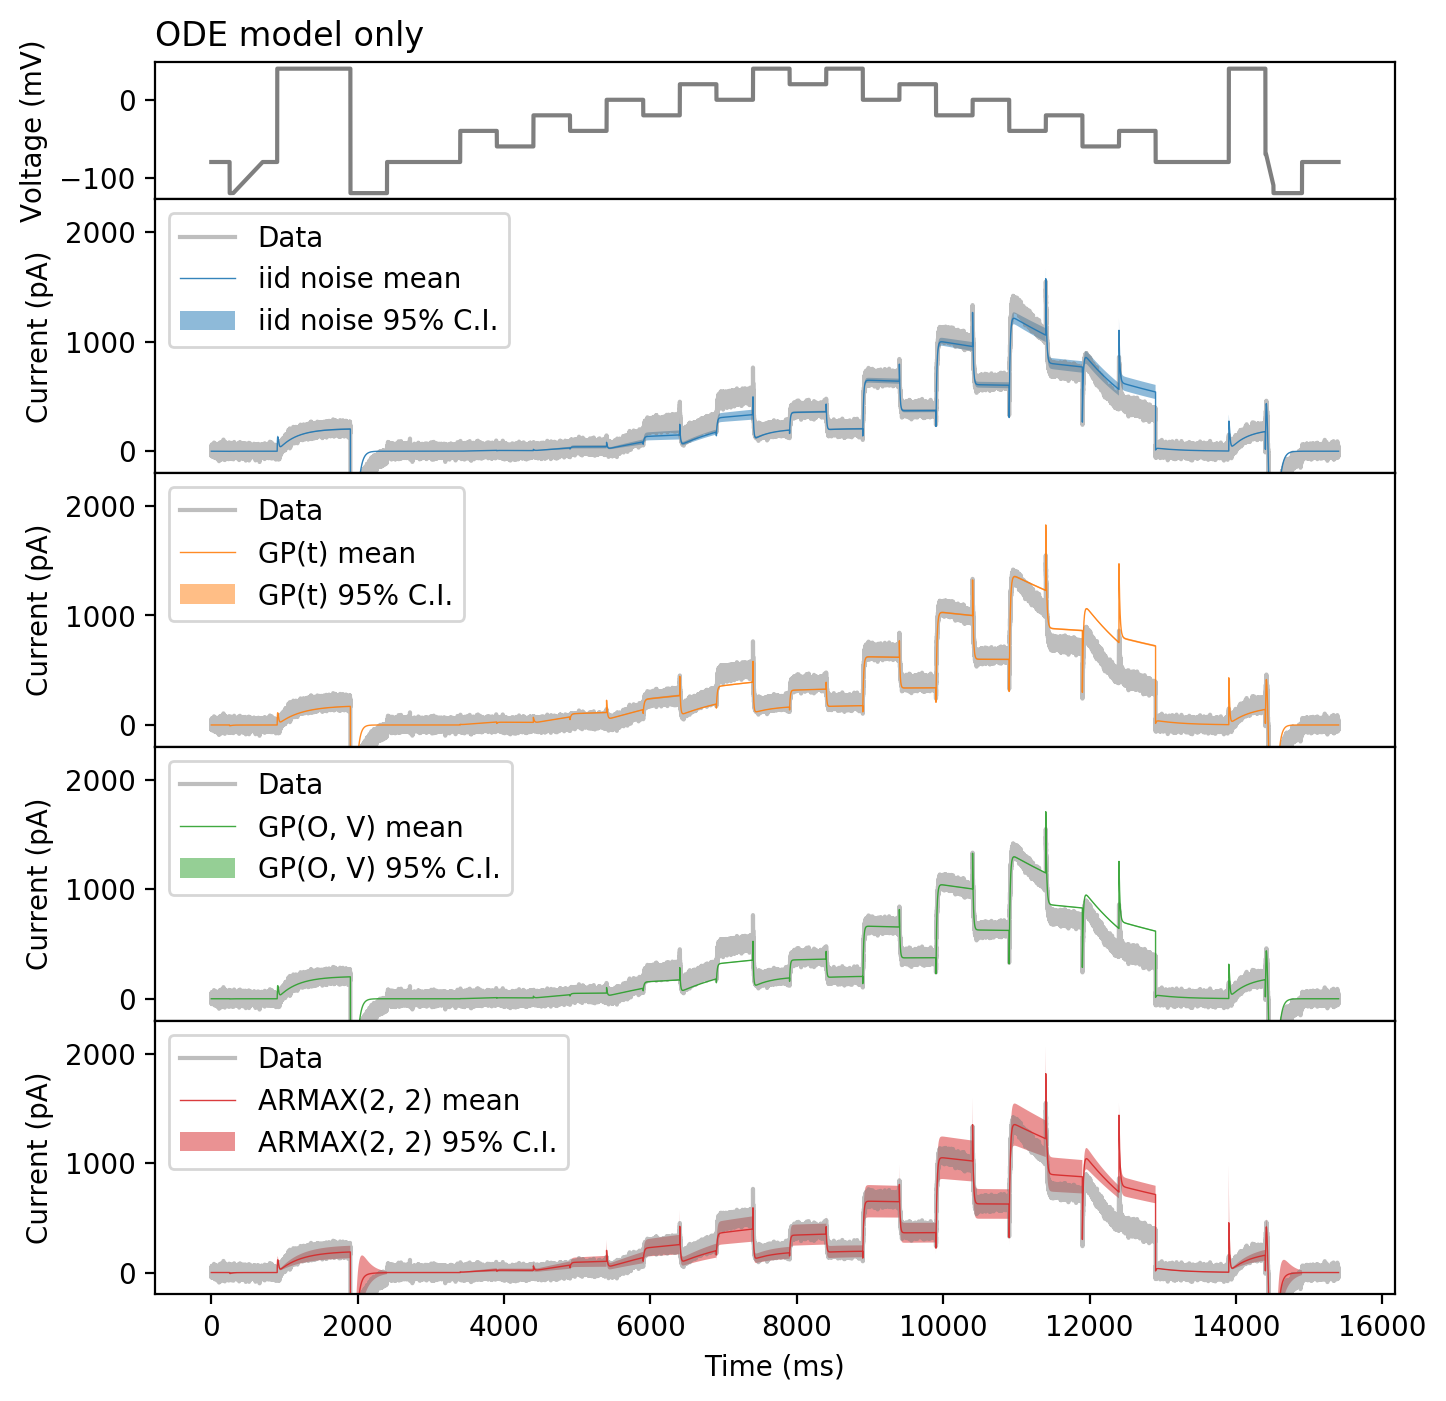
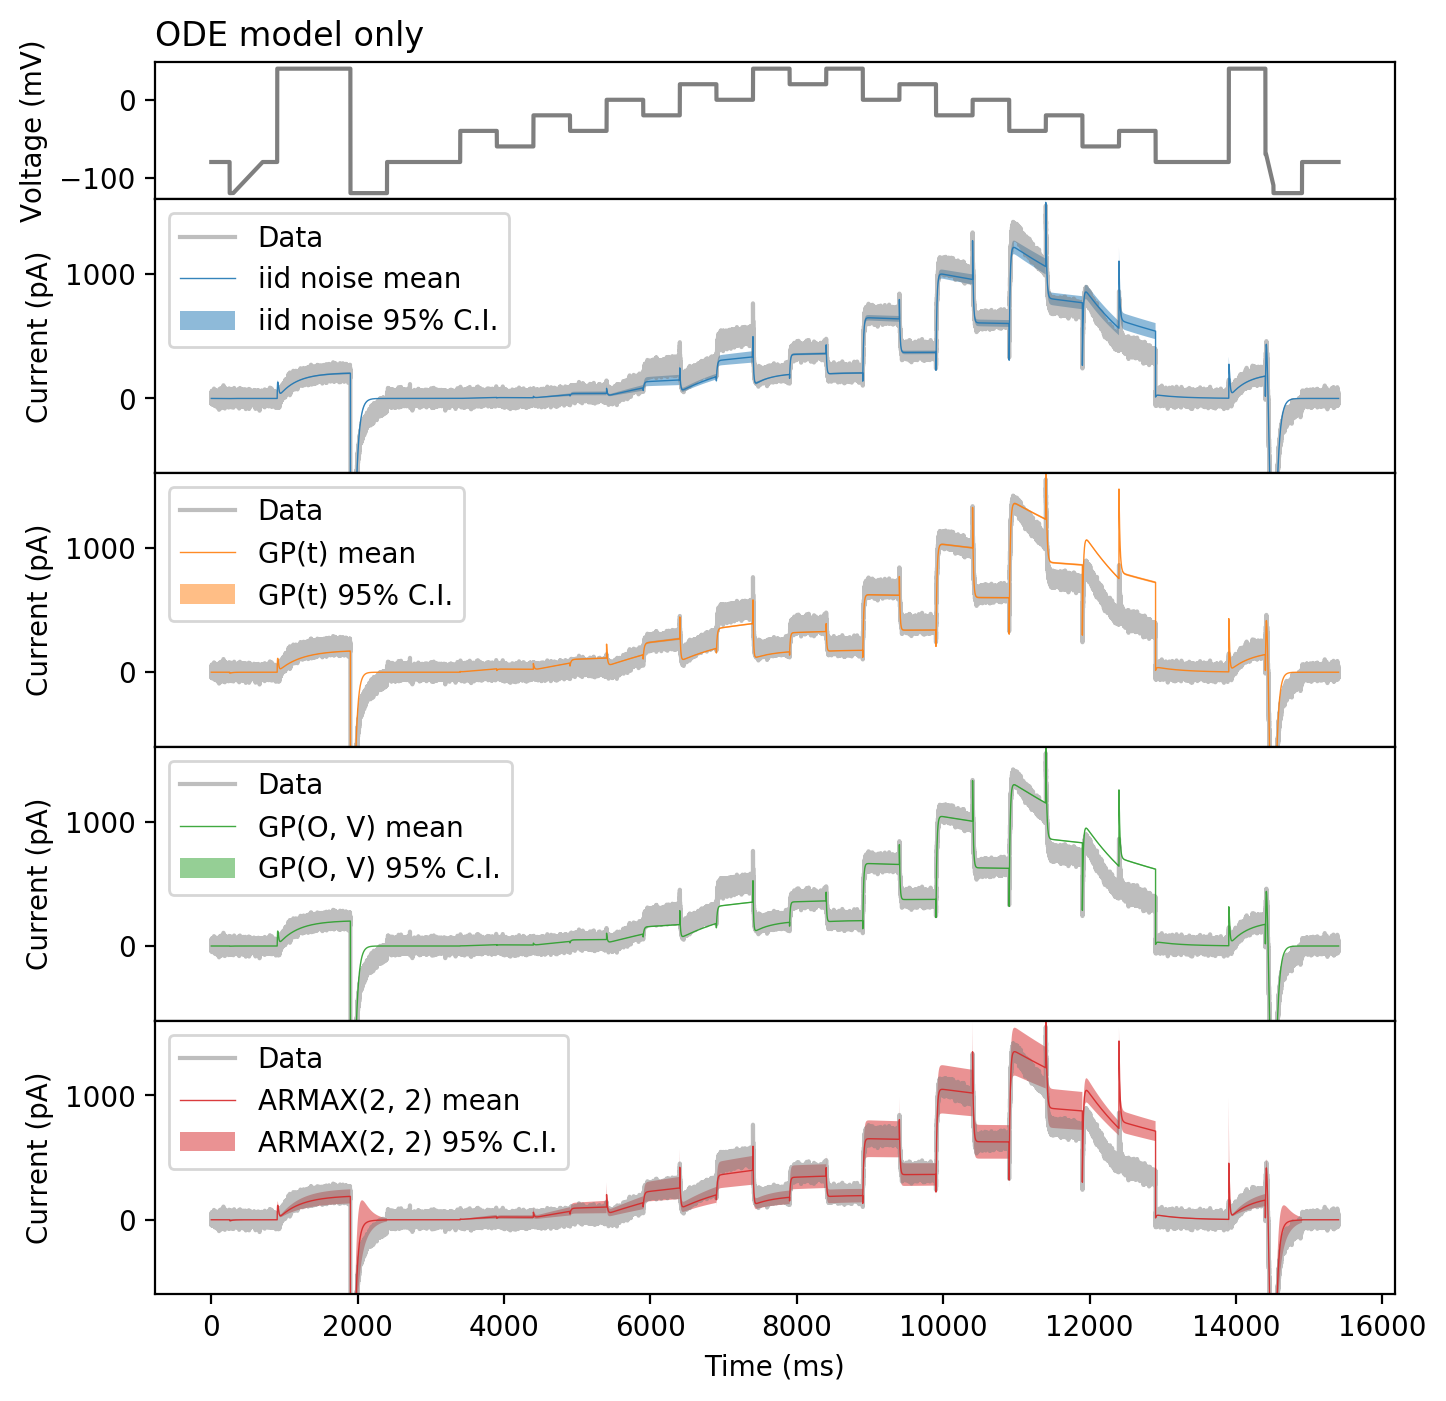
Update ylim

diff --git a/ion-channel-models/compare-pp.py b/ion-channel-models/compare-pp.py
@@ -20,7 +20,7 @@ This script plots the cached posterior predictives generated by `posterior.py`,
 """
 
 model_list = ['A', 'B', 'C']
-predict_list = ['sinewave', 'staircase', 'activation', 'ap']
+predict_list = ['sinewave', 'staircase', 'ap']
 discrepancy_list = ['', '-gp', '-gp-ov', '-arma_2_2']
 load_list = ['', '-gp', '-gp', '-armax']
 discrepancy_names = ['iid noise', 'GP(t)', 'GP(O, V)', 'ARMAX(2, 2)']
@@ -47,9 +47,12 @@ if not os.path.isdir(savedir):
     os.makedirs(savedir)
 saveas = 'compare-' + info_id + '-sinewave-%s-pp' % which_predict
 
-sys.path.append('./protocol-time-series')
-import importlib
-zoom = importlib.import_module(which_predict + '_to_zoom')
+if which_predict == 'sinewave':
+    zoom = [-1250, 800]
+elif which_predict == 'staircase':
+    zoom = [-600, 1600]
+elif which_predict == 'ap':
+    zoom = [-200, 4200]
 
 data_dir = './data'
 data_file_name = 'data-%s.csv' % which_predict
@@ -121,7 +124,7 @@ for i, d in enumerate(discrepancy_names):
             label=d + ' 95% C.I.')
     axes[i + 1].legend()
     axes[i + 1].set_ylabel('Current (pA)')
-    axes[i + 1].set_ylim(zoom.set_ylim)
+    axes[i + 1].set_ylim(zoom)
 axes[-1].set_xlabel('Time (ms)')
 plt.subplots_adjust(hspace=0)
 plt.savefig('%s/%s' % (savedir, saveas), dpi=200, bbox_inches='tight')
@@ -148,7 +151,7 @@ for i, d in enumerate(discrepancy_names):
             label=d + ' 95% C.I.')
     axes[i + 1].legend()
     axes[i + 1].set_ylabel('Current (pA)')
-    axes[i + 1].set_ylim(zoom.set_ylim)
+    axes[i + 1].set_ylim(zoom)
 axes[-1].set_xlabel('Time (ms)')
 plt.subplots_adjust(hspace=0)
 plt.savefig('%s/%s-only-model' % (savedir, saveas), dpi=200,
@@ -177,7 +180,7 @@ for i, d in enumerate(discrepancy_names):
             label=d + ' 95% C.I.')
     axes[i + 1].legend()
     axes[i + 1].set_ylabel('Current (pA)')
-    #axes[i + 1].set_ylim(zoom.set_ylim)
+    #axes[i + 1].set_ylim(zoom)
 axes[-1].set_xlabel('Time (ms)')
 plt.subplots_adjust(hspace=0)
 plt.savefig('%s/%s-only-disc' % (savedir, saveas), dpi=200,
